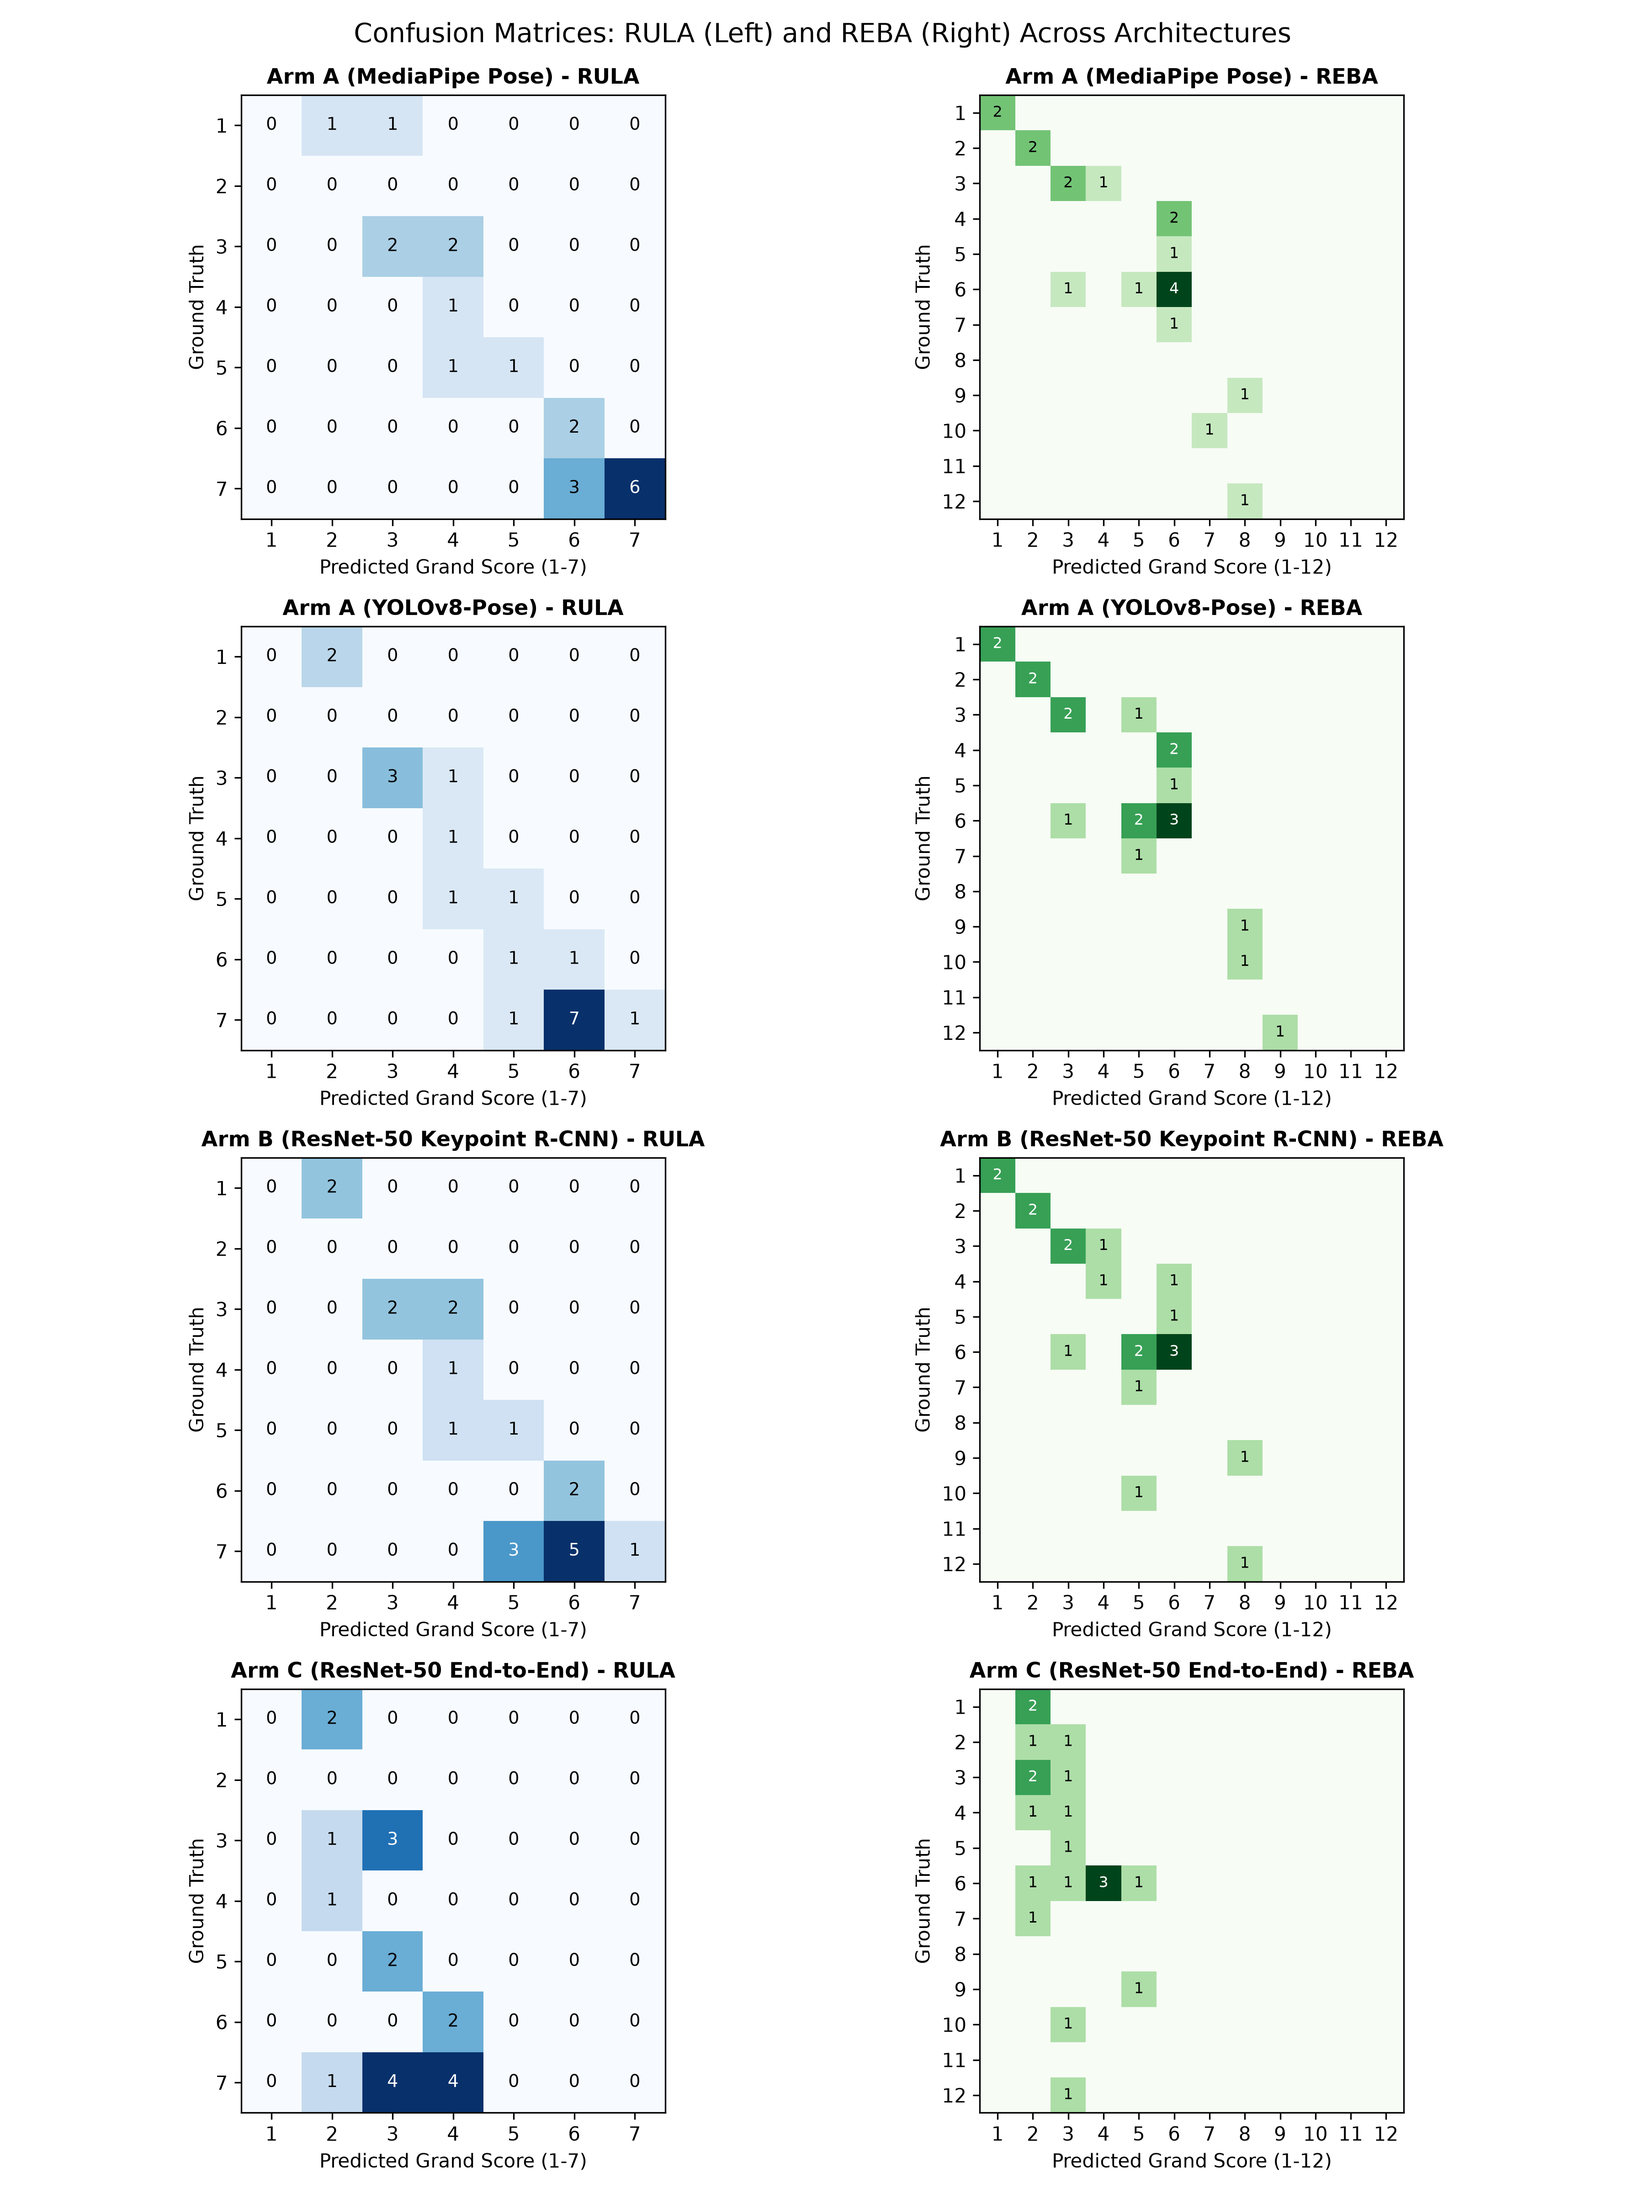
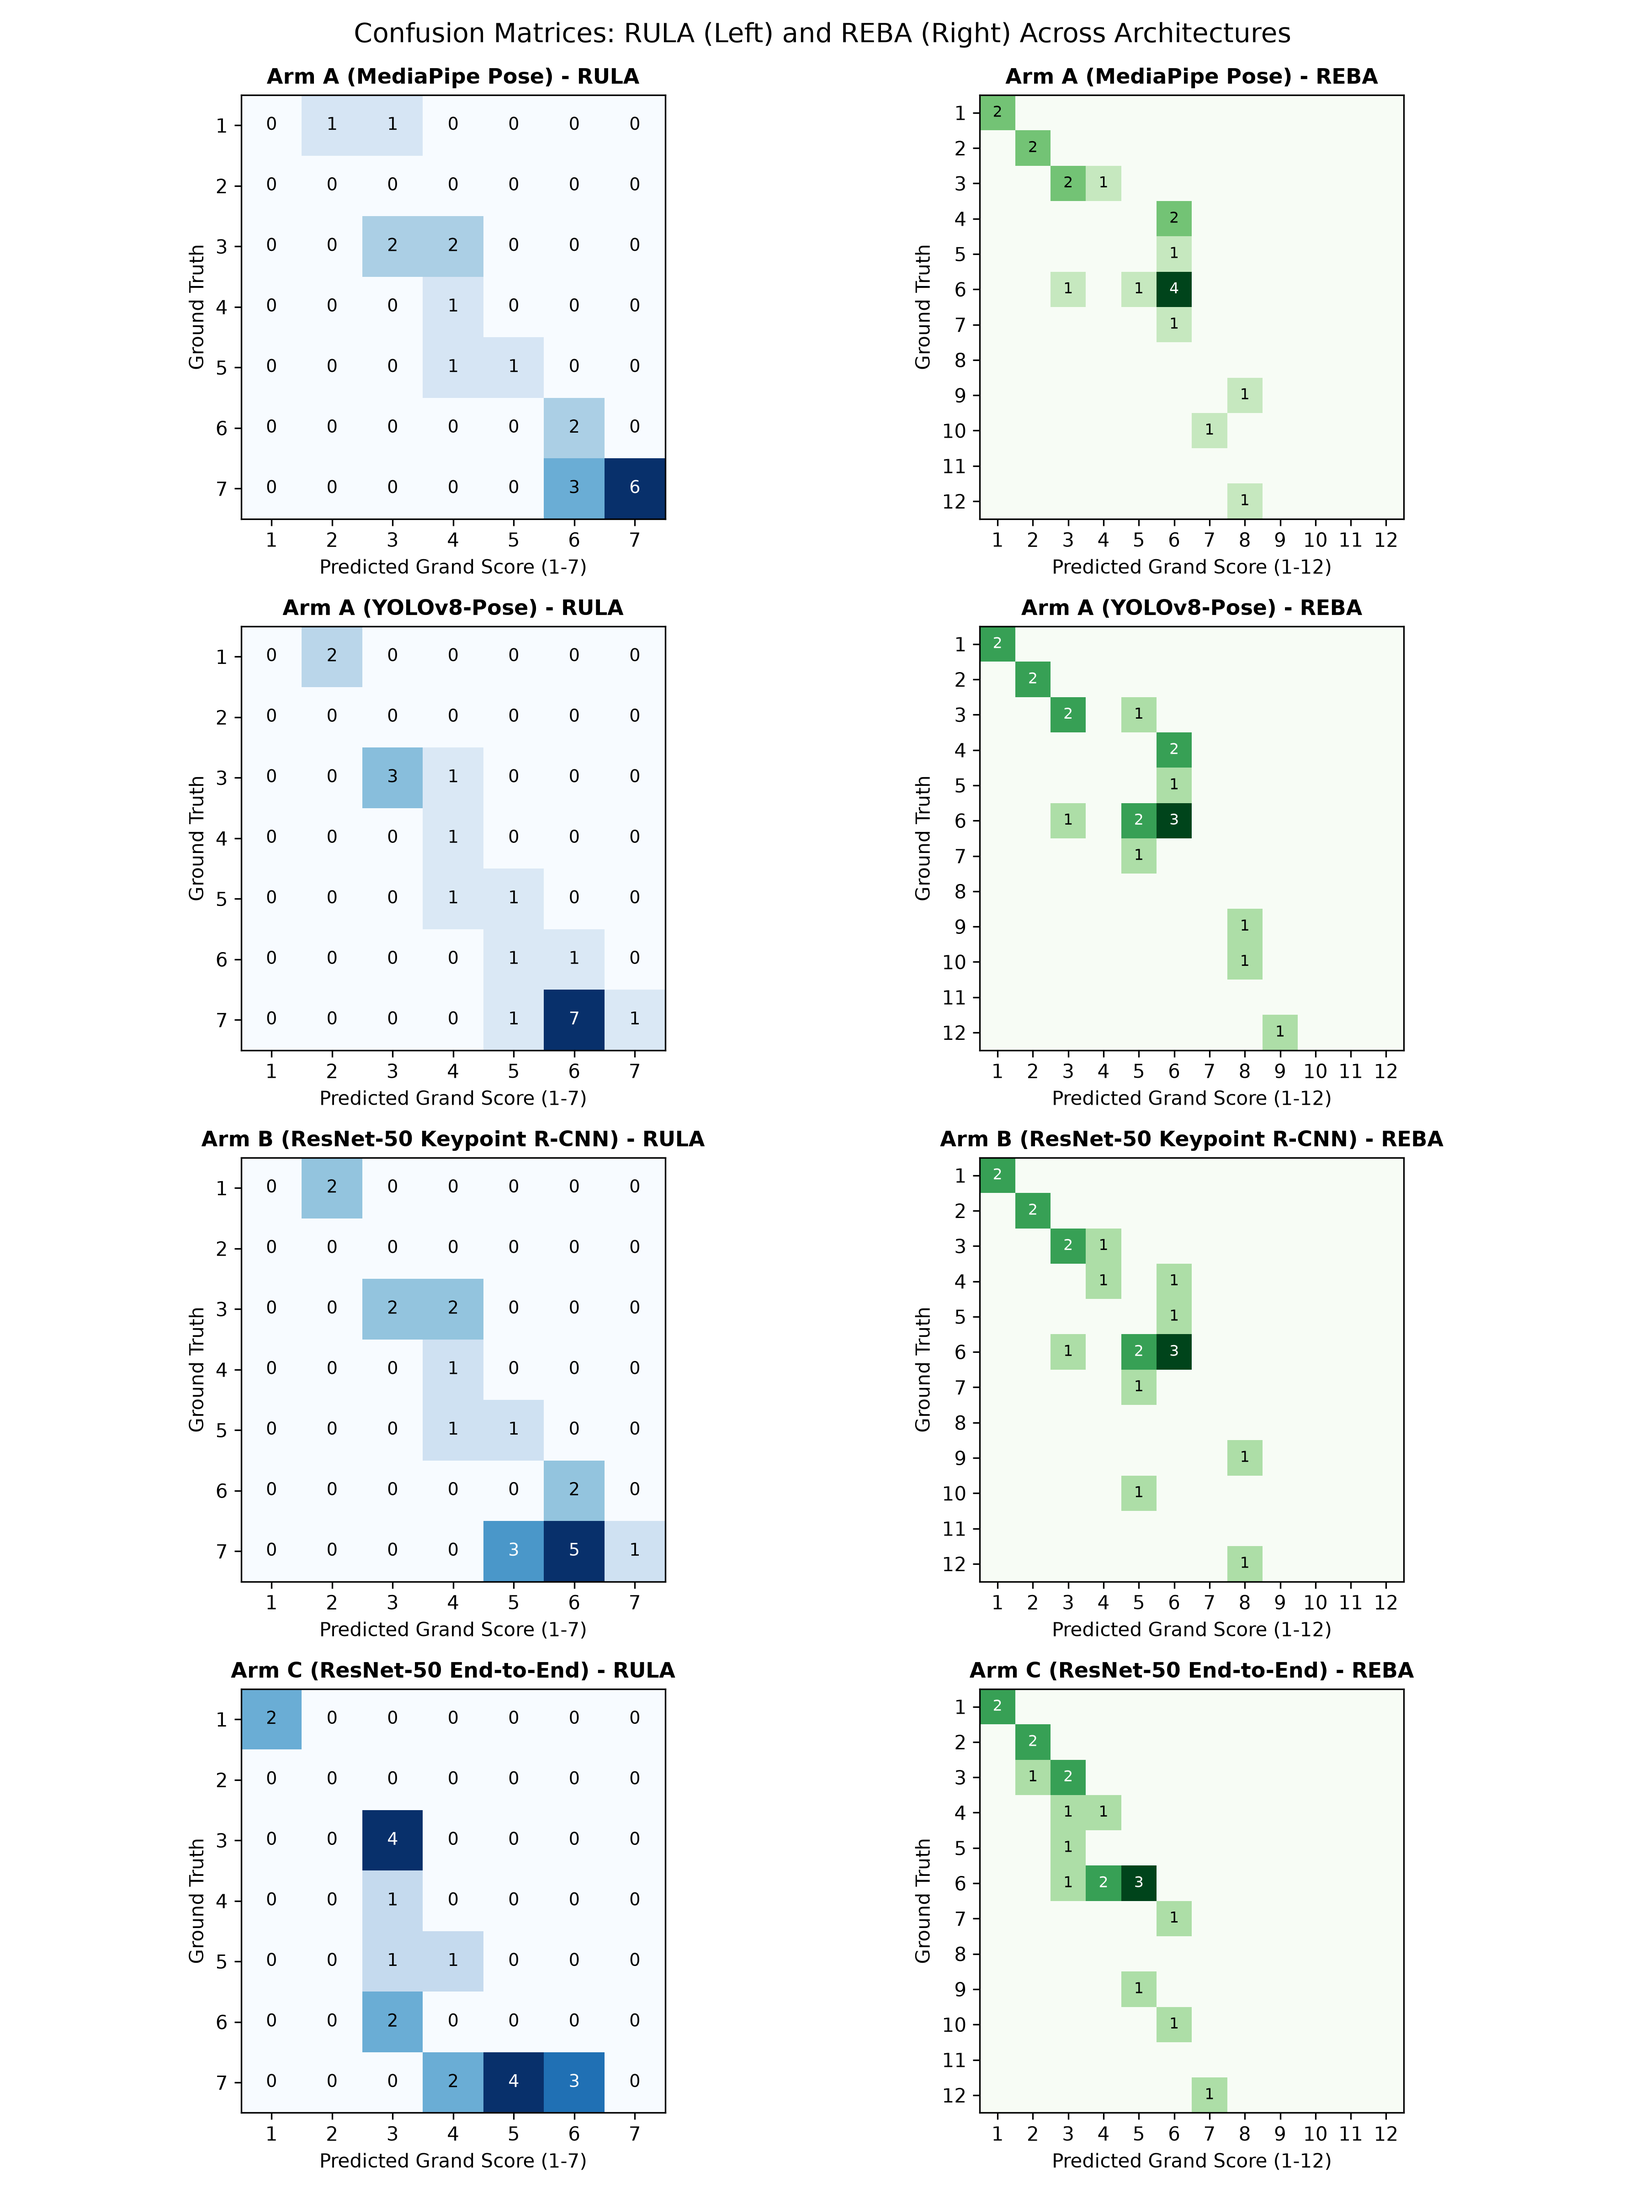
chore: add Streamlit cloud packages, fix YOLOv8 blank frame inference on Linux, and update Arm C 50-epoch results

Changed region(s): [[0.1244, 0.75, 0.3733, 0.9688], [0.5911, 0.75, 0.7467, 0.9688]]

diff --git a/scripts/generate_paper_results.py b/scripts/generate_paper_results.py
@@ -231,8 +231,17 @@ def plot_publication_figures(results: list[dict[str, Any]], output_dir: str = "r
 
 
 def main():
+    import argparse
+    from scripts.train_arm_c import train_arm_c
+
+    parser = argparse.ArgumentParser(description="Generate official IEOM 2026 paper benchmark results.")
+    parser.add_argument("--retrain-arm-c", action="store_true", help="Retrain Arm C model before evaluating.")
+    parser.add_argument("--arm-c-epochs", type=int, default=50, help="Number of training epochs for Arm C (default: 50).")
+    parser.add_argument("--device", type=str, default="cpu", choices=["cpu", "cuda"])
+    args = parser.parse_args()
+
     print("================================================================================")
-    print("Generating Official Research Results for IEOM 2026 Paper ID 283")
+    print("Generating Official Research Results for IEOM 2026 Paper IDs 283 & 284")
     print("================================================================================")
 
     data_csv = "data/canonical_validation.csv"
@@ -243,13 +252,18 @@ def main():
     dataset = ErgonomicsDataset(csv_path=data_csv, split=None)
     print(f"Loaded {len(dataset)} canonical evaluation samples across 5 subjects.")
 
+    # Train Arm C if requested or if weights do not exist
+    weights_arm_c = "models/weights/arm_c_best.pt"
+    if args.retrain_arm_c or not os.path.exists(weights_arm_c):
+        print(f"\nTraining Arm C (ResNet-50 E2E) for {args.arm_c_epochs} epochs on {args.device}...")
+        train_arm_c(data_csv=data_csv, epochs=args.arm_c_epochs, device_str=args.device, output_weights=weights_arm_c)
+
     # Initialize all 4 pipelines
     print("\n--- Initializing Architectural Pipelines ---")
     arm_a_mp = ArmAMediaPipe()
     arm_a_yo = ArmAYOLOv8()
     arm_b = ArmBKeypointRCNN()
 
-    weights_arm_c = "models/weights/arm_c_best.pt"
     if os.path.exists(weights_arm_c):
         print(f"Loading trained weights for Arm C from '{weights_arm_c}'...")
         arm_c = ArmCResNetE2E(weights_path=weights_arm_c, pretrained=False)

diff --git a/scripts/train_arm_c.py b/scripts/train_arm_c.py
@@ -29,6 +29,7 @@ def train_arm_c(
     device_str: str = "cpu",
     output_weights: str = "models/weights/arm_c_best.pt",
     smoke_test: bool = False,
+    split: str | None = None,
 ):
     device = torch.device("cuda" if device_str == "cuda" and torch.cuda.is_available() else "cpu")
     print(f"Training Arm C (ResNet-50 E2E) on device: {device}")
@@ -37,8 +38,8 @@ def train_arm_c(
         print(f"Dataset '{data_csv}' missing. Generating canonical reference dataset...")
         data_csv = generate_canonical_reference_dataset()
 
-    train_ds = ErgonomicsDataset(csv_path=data_csv, split="train", seed=42)
-    val_ds = ErgonomicsDataset(csv_path=data_csv, split="val", seed=42)
+    train_ds = ErgonomicsDataset(csv_path=data_csv, split=split, seed=42)
+    val_ds = ErgonomicsDataset(csv_path=data_csv, split="val", seed=42) if split == "train" else None
 
     if len(train_ds) == 0:
         train_ds = ErgonomicsDataset(csv_path=data_csv, split=None)
@@ -114,6 +115,7 @@ def main():
     parser.add_argument("--device", type=str, default="cpu", choices=["cpu", "cuda"])
     parser.add_argument("--output-weights", type=str, default="models/weights/arm_c_best.pt")
     parser.add_argument("--smoke-test", action="store_true", help="Quick 1-step verification.")
+    parser.add_argument("--split", type=str, default=None, help="Dataset split: 'train', 'val', or None for all.")
     args = parser.parse_args()
 
     train_arm_c(
@@ -124,6 +126,7 @@ def main():
         device_str=args.device,
         output_weights=args.output_weights,
         smoke_test=args.smoke_test,
+        split=args.split,
     )
 
 

diff --git a/models/arm_a_yolov8.py b/models/arm_a_yolov8.py
@@ -37,7 +37,18 @@ class ArmAYOLOv8(BaseErgoModel):
         - keypoints: (17, 3) array [x, y, confidence] in pixel space
         - names: list of 17 COCO keypoint names
         """
-        results = self.model(frame, verbose=False, conf=self.confidence_threshold)
+        # Guard against blank/all-zero frames causing Linux Python 3.13 autobackend FP exception
+        if frame is None or frame.size == 0 or frame.max() == 0:
+            return np.zeros((17, 3), dtype=np.float32), list(COCO_KEYPOINTS)
+
+        dev = "cpu" if str(self.device).lower() == "cpu" else self.device
+        results = self.model(
+            frame,
+            device=dev,
+            verbose=False,
+            half=False,
+            conf=self.confidence_threshold,
+        )
 
         if not results or len(results) == 0:
             return np.zeros((17, 3), dtype=np.float32), list(COCO_KEYPOINTS)
